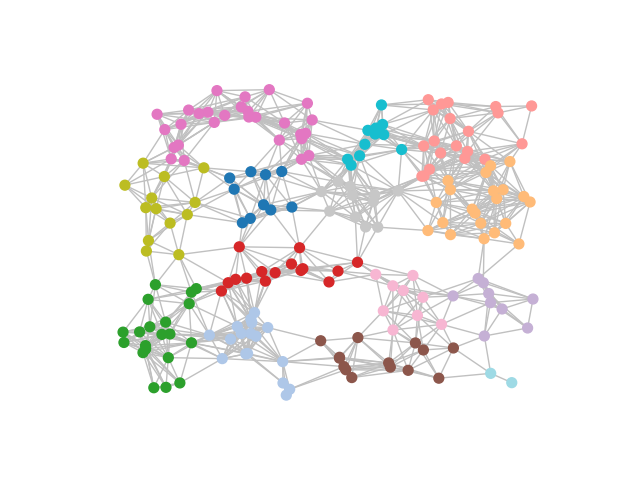
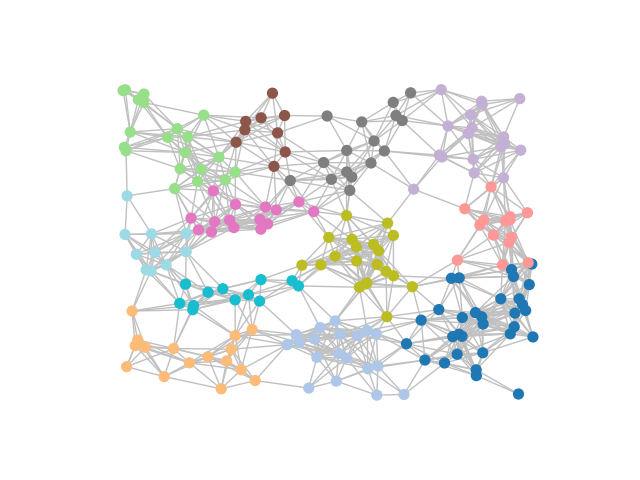
updated readme

Changed region(s): [[0.1875, 0.1562, 0.8438, 0.8438]]

diff --git a/README.md b/README.md
@@ -99,4 +99,14 @@ disable labels and set the color for edges.
 ```python
 mc.draw_graph(matrix, clusters, pos=positions, node_size=50, with_labels=False, edge_color="silver")
 ```
-This should result in an image similar to the one at the top of this section.  
+This should result in an image similar to the one at the top of this section. 
+
+
+If the clustering is too fine for your taste, reducing the MCL inflation parameter to 1.4 (from the default of 2)
+will result in coarser clustering. e.g.
+```
+result = mc.run_mcl(matrix, inflation=1.4)
+clusters = mc.get_clusters(result)
+mc.draw_graph(matrix, clusters, pos=positions, node_size=50, with_labels=False, edge_color="silver")
+```
+![coarse example](/static/example_coarse.png)
